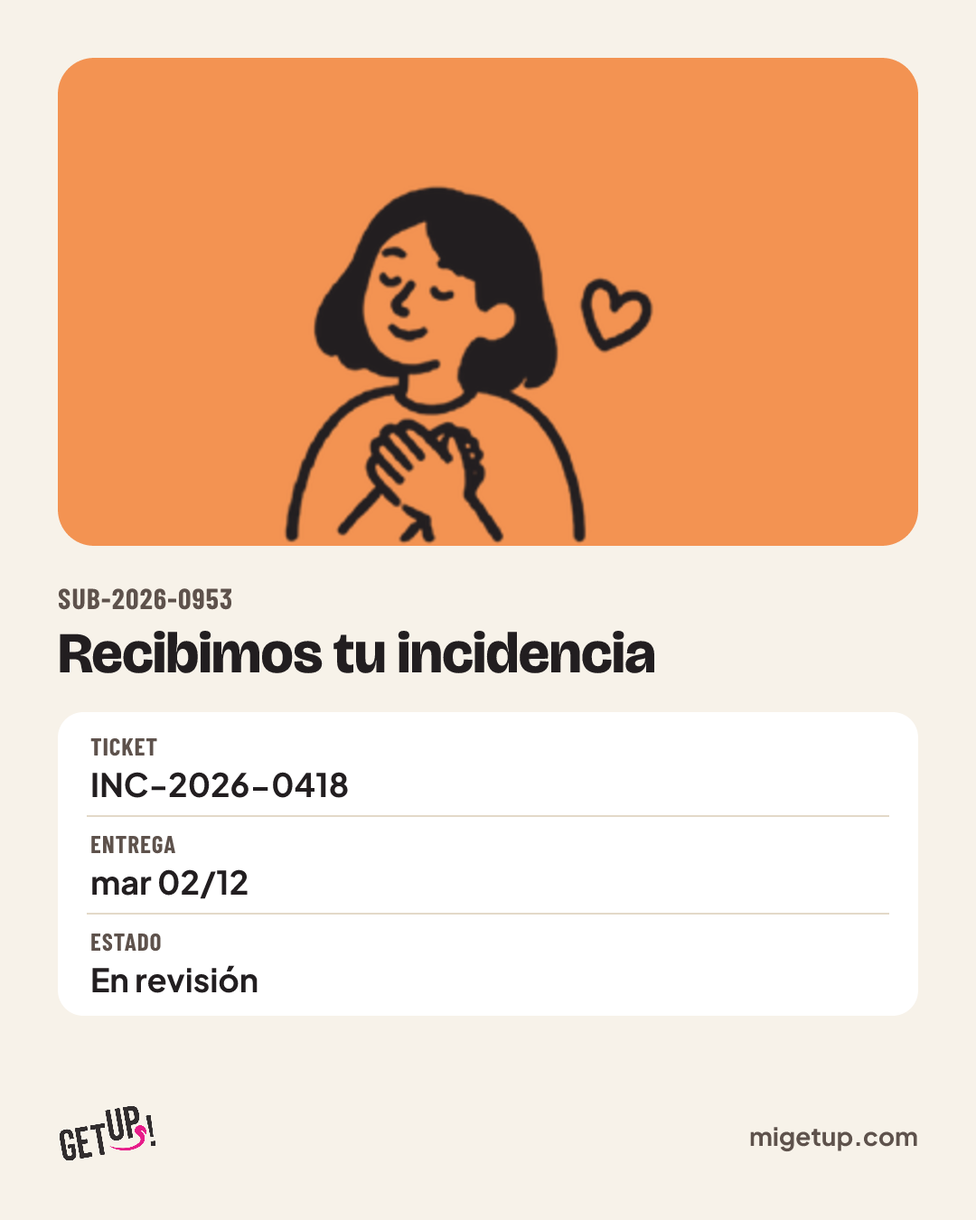
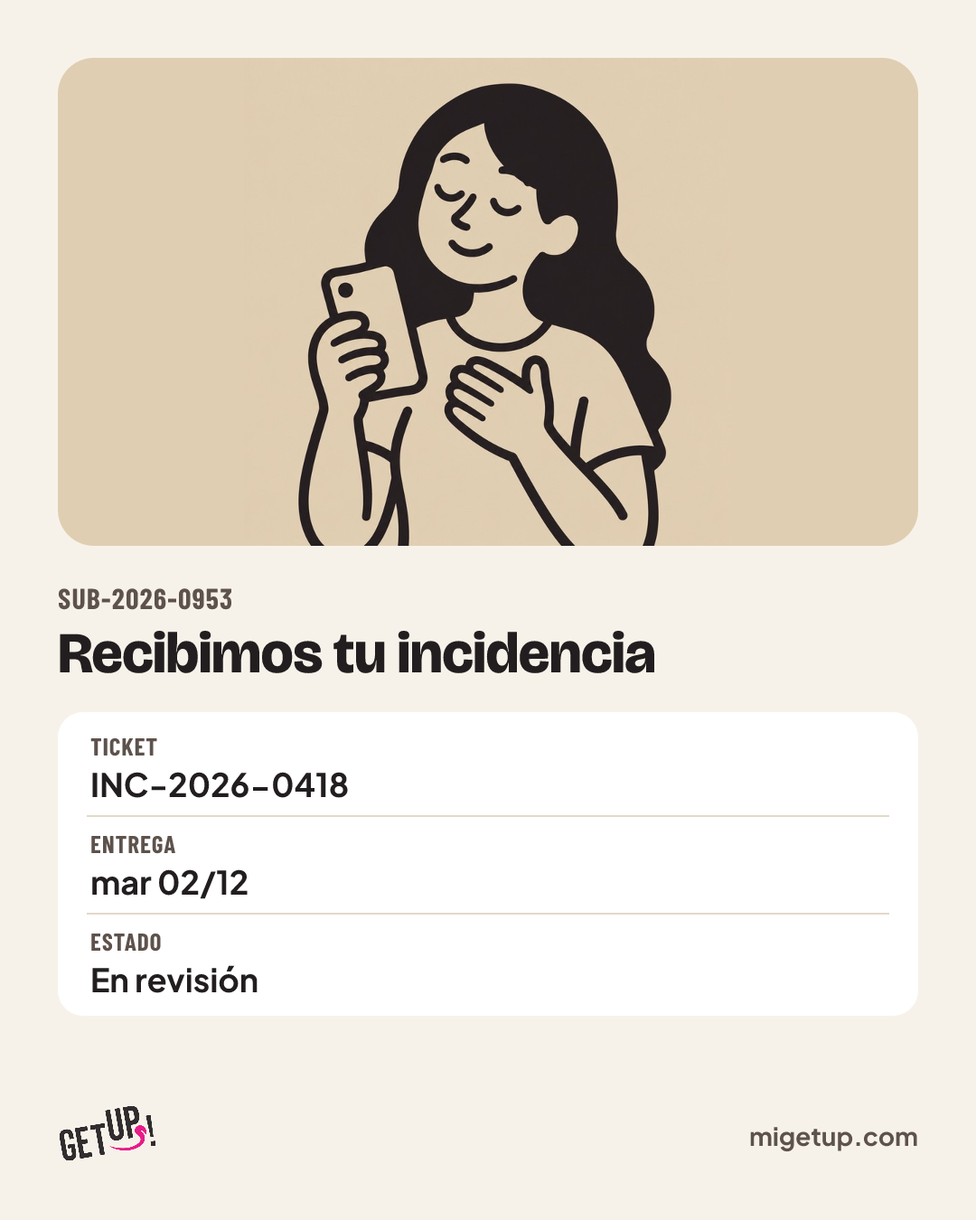
Revisión v3: tarjetas con pie corto, ilustración nueva de incidencia y renovación confirmada (32)

diff --git a/revision-v3/tarjetas/index.html b/revision-v3/tarjetas/index.html
@@ -31,7 +31,7 @@
 <body>
 <header>
   <h1>Avisos por WhatsApp con tarjeta</h1>
-  <p>31 eventos con datos inventados: 20 acciones del cliente en el portal (mismo mensaje que el correo) y 11 mensajes de Mía.</p>
+  <p>32 eventos con datos inventados: 20 acciones del cliente en el portal (mismo mensaje que el correo) y 12 mensajes de Mía.</p>
   <p>Cada tarjeta va con su texto de pie, como se vería en el chat.</p>
 </header>
 <main>
@@ -39,7 +39,7 @@
     <h2><span class="chip portal">Portal</span> Suspender días</h2>
     <p class="meta">evento portal_suspension del ERP · tarjeta «suspension» · <a href="01-suspension.png">PNG</a></p>
     <div class="chat">
-      <div class="burbuja"><img src="01-suspension.png" alt="Tus días quedaron suspendidos" loading="lazy"><p><b>Tus días quedaron suspendidos</b><br><br>Hola, Valeria. Tus días mié 03/12 y jue 04/12 quedaron suspendidos correctamente.<br><br>Los recibes al final de tu plan: lun 05/01 y mar 06/01.<br><br>Lo ves en tu portal: migetup.com<br>¿No fuiste tú? Respóndenos por aquí.</p><span class="hora">10:24</span></div>
+      <div class="burbuja"><img src="01-suspension.png" alt="Tus días quedaron suspendidos" loading="lazy"><p>Hola Valeria, tus días mié 03/12 y jue 04/12 quedaron suspendidos.</p><span class="hora">10:24</span></div>
       
     </div>
     
@@ -49,7 +49,7 @@
     <h2><span class="chip portal">Portal</span> Volver a recibir un día</h2>
     <p class="meta">evento portal_reactivacion del ERP · tarjeta «reactivacion» · <a href="02-reactivacion.png">PNG</a></p>
     <div class="chat">
-      <div class="burbuja"><img src="02-reactivacion.png" alt="Tu día quedó reactivado" loading="lazy"><p><b>Tu día quedó reactivado</b><br><br>Hola, Valeria. Tu día jue 04/12 quedó reactivado correctamente. Lo recibes como siempre.<br><br>Lo ves en tu portal: migetup.com<br>¿No fuiste tú? Respóndenos por aquí.</p><span class="hora">10:24</span></div>
+      <div class="burbuja"><img src="02-reactivacion.png" alt="Tu día quedó reactivado" loading="lazy"><p>Hola Valeria, tu día jue 04/12 quedó reactivado.</p><span class="hora">10:24</span></div>
       
     </div>
     
@@ -59,7 +59,7 @@
     <h2><span class="chip portal">Portal</span> Volver a recibir y suspender a la vez</h2>
     <p class="meta">evento portal_suspension del ERP · tarjeta «suspension» · <a href="03-suspension.png">PNG</a></p>
     <div class="chat">
-      <div class="burbuja"><img src="03-suspension.png" alt="Tus días quedaron actualizados" loading="lazy"><p><b>Tus días quedaron actualizados</b><br><br>Hola, Valeria. Vuelves a recibir tu día jue 04/12. Tu día vie 05/12 quedó suspendido.<br><br>Lo recibes al final de tu plan: mar 06/01.<br><br>Lo ves en tu portal: migetup.com<br>¿No fuiste tú? Respóndenos por aquí.</p><span class="hora">10:24</span></div>
+      <div class="burbuja"><img src="03-suspension.png" alt="Tus días quedaron actualizados" loading="lazy"><p>Hola Valeria, vuelves a recibir tu día jue 04/12.</p><span class="hora">10:24</span></div>
       
     </div>
     
@@ -69,7 +69,7 @@
     <h2><span class="chip portal">Portal</span> Cambiar la dirección</h2>
     <p class="meta">evento portal_direccion del ERP · tarjeta «direccion» · <a href="04-direccion.png">PNG</a></p>
     <div class="chat">
-      <div class="burbuja"><img src="04-direccion.png" alt="Cambiaste tu dirección de entrega" loading="lazy"><p><b>Cambiaste tu dirección de entrega</b><br><br>Hola, Valeria. Desde el lun 08/12 tus entregas irán a OFICINA (Av. Los Pinos 450, San Isidro).<br><br>Lo ves en tu portal: migetup.com<br>¿No fuiste tú? Respóndenos por aquí.</p><span class="hora">10:24</span></div>
+      <div class="burbuja"><img src="04-direccion.png" alt="Cambiaste tu dirección de entrega" loading="lazy"><p>Hola Valeria, desde el lun 08/12 tus entregas irán a OFICINA (Av. Los Pinos 450, San Isidro).</p><span class="hora">10:24</span></div>
       
     </div>
     
@@ -79,7 +79,7 @@
     <h2><span class="chip portal">Portal</span> Cambiar el horario</h2>
     <p class="meta">evento portal_horario del ERP · tarjeta «horario» · <a href="05-horario.png">PNG</a></p>
     <div class="chat">
-      <div class="burbuja"><img src="05-horario.png" alt="Cambiaste tu horario de entrega" loading="lazy"><p><b>Cambiaste tu horario de entrega</b><br><br>Hola, Valeria. Tu día mié 03/12 se entregará entre 9:00 y 13:00.<br><br>Lo ves en tu portal: migetup.com<br>¿No fuiste tú? Respóndenos por aquí.</p><span class="hora">10:24</span></div>
+      <div class="burbuja"><img src="05-horario.png" alt="Cambiaste tu horario de entrega" loading="lazy"><p>Hola Valeria, tu día mié 03/12 se entregará entre 9:00 y 13:00.</p><span class="hora">10:24</span></div>
       
     </div>
     
@@ -89,7 +89,7 @@
     <h2><span class="chip portal">Portal</span> Cambiar los días de entrega</h2>
     <p class="meta">evento portal_dias_entrega del ERP · tarjeta «dias_entrega» · <a href="06-dias_entrega.png">PNG</a></p>
     <div class="chat">
-      <div class="burbuja"><img src="06-dias_entrega.png" alt="Cambiaste tus días de entrega" loading="lazy"><p><b>Cambiaste tus días de entrega</b><br><br>Hola, Valeria. Tus días de entrega ahora son lunes, miércoles y viernes.<br><br>• Lunes: CASA<br>• Miércoles: OFICINA<br>• Viernes: CASA<br><br>Tu horario ahora es entre 6:00 y 9:00.<br><br>Lo ves en tu portal: migetup.com<br>¿No fuiste tú? Respóndenos por aquí.</p><span class="hora">10:24</span></div>
+      <div class="burbuja"><img src="06-dias_entrega.png" alt="Cambiaste tus días de entrega" loading="lazy"><p>Hola Valeria, tus días de entrega ahora son lunes, miércoles y viernes.</p><span class="hora">10:24</span></div>
       
     </div>
     
@@ -99,7 +99,7 @@
     <h2><span class="chip portal">Portal</span> Reportar una incidencia</h2>
     <p class="meta">evento portal_incidencia del ERP · tarjeta «incidencia» · <a href="07-incidencia.png">PNG</a></p>
     <div class="chat">
-      <div class="burbuja"><img src="07-incidencia.png" alt="Recibimos tu incidencia" loading="lazy"><p><b>Recibimos tu incidencia</b><br><br>Hola, Valeria. Recibimos tu incidencia del mar 02/12. Tu asesora la revisará y te avisará en la app.<br><br>Lo ves en tu portal: migetup.com<br>¿No fuiste tú? Respóndenos por aquí.</p><span class="hora">10:24</span></div>
+      <div class="burbuja"><img src="07-incidencia.png" alt="Recibimos tu incidencia" loading="lazy"><p>Hola Valeria, recibimos tu incidencia del mar 02/12.</p><span class="hora">10:24</span></div>
       
     </div>
     
@@ -109,7 +109,7 @@
     <h2><span class="chip portal">Portal</span> Pedir la balanza</h2>
     <p class="meta">evento balanza_solicitada del ERP · tarjeta «balanza» · <a href="08-balanza.png">PNG</a></p>
     <div class="chat">
-      <div class="burbuja"><img src="08-balanza.png" alt="Recibimos tu solicitud de balanza" loading="lazy"><p><b>Recibimos tu solicitud de balanza</b><br><br>Hola, Valeria. Recibimos tu solicitud de balanza BAL-0057. Te la llevamos el jue 04/12.<br><br>Lo ves en tu portal: migetup.com<br>¿No fuiste tú? Respóndenos por aquí.</p><span class="hora">10:24</span></div>
+      <div class="burbuja"><img src="08-balanza.png" alt="Recibimos tu solicitud de balanza" loading="lazy"><p>Hola Valeria, recibimos tu solicitud de balanza BAL-0057.</p><span class="hora">10:24</span></div>
       
     </div>
     
@@ -119,7 +119,7 @@
     <h2><span class="chip portal">Portal</span> Comprobante de excepciones</h2>
     <p class="meta">evento portal_excepcion_pago del ERP · tarjeta «pago» · <a href="09-pago.png">PNG</a></p>
     <div class="chat">
-      <div class="burbuja"><img src="09-pago.png" alt="Recibimos tu comprobante" loading="lazy"><p><b>Recibimos tu comprobante</b><br><br>Hola, Valeria. Recibimos tu comprobante de pago de excepciones. Tu asesora lo confirmará pronto.<br><br>Lo ves en tu portal: migetup.com<br>¿No fuiste tú? Respóndenos por aquí.</p><span class="hora">10:24</span></div>
+      <div class="burbuja"><img src="09-pago.png" alt="Recibimos tu comprobante" loading="lazy"><p>Hola Valeria, recibimos tu comprobante de pago de excepciones.</p><span class="hora">10:24</span></div>
       
     </div>
     
@@ -129,7 +129,7 @@
     <h2><span class="chip portal">Portal</span> Migrar el plan: falta el pago</h2>
     <p class="meta">evento migracion del ERP · tarjeta «pago_pendiente» · <a href="10-pago_pendiente.png">PNG</a></p>
     <div class="chat">
-      <div class="burbuja"><img src="10-pago_pendiente.png" alt="Falta el pago de tu nuevo plan" loading="lazy"><p><b>Falta el pago de tu nuevo plan</b><br><br>Hola, Valeria. Recibimos tu cambio de plan. Sube tu comprobante de S/ 120.00 hasta el mié 03/12 a las 11:59 p. m.<br><br>Lo ves en tu portal: migetup.com<br>¿No fuiste tú? Respóndenos por aquí.</p><span class="hora">10:24</span></div>
+      <div class="burbuja"><img src="10-pago_pendiente.png" alt="Falta el pago de tu nuevo plan" loading="lazy"><p>Hola Valeria, recibimos tu cambio de plan.<br>Sube tu comprobante de S/ 120.00 hasta el mié 03/12 a las 11:59 p. m.</p><span class="hora">10:24</span></div>
       
     </div>
     
@@ -139,7 +139,7 @@
     <h2><span class="chip portal">Portal</span> Migrar el plan: activo</h2>
     <p class="meta">evento migracion del ERP · tarjeta «migracion» · <a href="11-migracion.png">PNG</a></p>
     <div class="chat">
-      <div class="burbuja"><img src="11-migracion.png" alt="Tu nuevo plan está activo" loading="lazy"><p><b>Tu nuevo plan está activo</b><br><br>Hola, Valeria. Tu nuevo plan SUB-2026-0960 empieza el lun 08/12.<br><br>Lo ves en tu portal: migetup.com<br>¿No fuiste tú? Respóndenos por aquí.</p><span class="hora">10:24</span></div>
+      <div class="burbuja"><img src="11-migracion.png" alt="Tu nuevo plan está activo" loading="lazy"><p>Hola Valeria, tu nuevo plan SUB-2026-0960 empieza el lun 08/12.</p><span class="hora">10:24</span></div>
       
     </div>
     
@@ -149,7 +149,7 @@
     <h2><span class="chip portal">Portal</span> Migrar el plan: comprobante</h2>
     <p class="meta">evento migracion del ERP · tarjeta «pago» · <a href="12-pago.png">PNG</a></p>
     <div class="chat">
-      <div class="burbuja"><img src="12-pago.png" alt="Recibimos tu comprobante" loading="lazy"><p><b>Recibimos tu comprobante</b><br><br>Hola, Valeria. Recibimos tu comprobante del cambio de plan. Tu pago está en revisión.<br><br>Lo ves en tu portal: migetup.com<br>¿No fuiste tú? Respóndenos por aquí.</p><span class="hora">10:24</span></div>
+      <div class="burbuja"><img src="12-pago.png" alt="Recibimos tu comprobante" loading="lazy"><p>Hola Valeria, recibimos tu comprobante del cambio de plan.</p><span class="hora">10:24</span></div>
       
     </div>
     
@@ -159,7 +159,7 @@
     <h2><span class="chip portal">Portal</span> Migrar el plan: cancelado</h2>
     <p class="meta">evento migracion del ERP · tarjeta «cancelado» · <a href="13-cancelado.png">PNG</a></p>
     <div class="chat">
-      <div class="burbuja"><img src="13-cancelado.png" alt="Tu cambio de plan quedó cancelado" loading="lazy"><p><b>Tu cambio de plan quedó cancelado</b><br><br>Hola, Valeria. No pagaste la activación de tu plan; tu plan quedó cancelado. Tu saldo a favor sigue disponible.<br><br>Lo ves en tu portal: migetup.com<br>¿No fuiste tú? Respóndenos por aquí.</p><span class="hora">10:24</span></div>
+      <div class="burbuja"><img src="13-cancelado.png" alt="Tu cambio de plan quedó cancelado" loading="lazy"><p>Hola Valeria, no pagaste la activación de tu plan; tu plan quedó cancelado.</p><span class="hora">10:24</span></div>
       
     </div>
     
@@ -169,7 +169,7 @@
     <h2><span class="chip portal">Portal</span> Canjear un premio</h2>
     <p class="meta">evento portal_canje del ERP · tarjeta «canje» · <a href="14-canje.png">PNG</a></p>
     <div class="chat">
-      <div class="burbuja"><img src="14-canje.png" alt="Recibimos tu canje" loading="lazy"><p><b>Recibimos tu canje</b><br><br>Hola, Valeria. Canjeaste Almuerzo extra por 200 estrellas.<br><br>Te llega un almuerzo extra el vie 05/12.<br><br>Lo ves en tu portal: migetup.com<br>¿No fuiste tú? Respóndenos por aquí.</p><span class="hora">10:24</span></div>
+      <div class="burbuja"><img src="14-canje.png" alt="Recibimos tu canje" loading="lazy"><p>Hola Valeria, canjeaste Almuerzo extra por 200 estrellas.</p><span class="hora">10:24</span></div>
       
     </div>
     
@@ -179,7 +179,7 @@
     <h2><span class="chip portal">Portal</span> Usar un código de regalo</h2>
     <p class="meta">evento portal_canje del ERP · tarjeta «regalo» · <a href="15-regalo.png">PNG</a></p>
     <div class="chat">
-      <div class="burbuja"><img src="15-regalo.png" alt="Agregamos tu regalo a tu plan" loading="lazy"><p><b>Agregamos tu regalo a tu plan</b><br><br>Hola, Valeria. Agregamos un almuerzo de regalo a tu plan el vie 05/12.<br><br>Ese día te llega almuerzo y cena.<br><br>Lo ves en tu portal: migetup.com<br>¿No fuiste tú? Respóndenos por aquí.</p><span class="hora">10:24</span></div>
+      <div class="burbuja"><img src="15-regalo.png" alt="Agregamos tu regalo a tu plan" loading="lazy"><p>Hola Valeria, agregamos un almuerzo de regalo a tu plan el vie 05/12.</p><span class="hora">10:24</span></div>
       
     </div>
     
@@ -189,7 +189,7 @@
     <h2><span class="chip portal">Portal</span> Cambiar las excepciones</h2>
     <p class="meta">evento portal_excepciones del ERP · tarjeta «excepciones» · <a href="16-excepciones.png">PNG</a></p>
     <div class="chat">
-      <div class="burbuja"><img src="16-excepciones.png" alt="Actualizaste tus excepciones" loading="lazy"><p><b>Actualizaste tus excepciones</b><br><br>Hola, Valeria. Tus excepciones ahora son: gluten y maní.<br><br>La cocina aplica estos cambios desde el jue 04/12 (48 horas después de pedirlos).<br><br>Lo ves en tu portal: migetup.com<br>¿No fuiste tú? Respóndenos por aquí.</p><span class="hora">10:24</span></div>
+      <div class="burbuja"><img src="16-excepciones.png" alt="Actualizaste tus excepciones" loading="lazy"><p>Hola Valeria, tus excepciones ahora son: gluten y maní.</p><span class="hora">10:24</span></div>
       
     </div>
     
@@ -199,7 +199,7 @@
     <h2><span class="chip portal">Portal</span> Editar una dirección</h2>
     <p class="meta">evento portal_direcciones del ERP · tarjeta «direccion» · <a href="17-direccion.png">PNG</a></p>
     <div class="chat">
-      <div class="burbuja"><img src="17-direccion.png" alt="Actualizaste tu dirección OFICINA" loading="lazy"><p><b>Actualizaste tu dirección OFICINA</b><br><br>Hola, Valeria. Tu dirección OFICINA ahora es Av. Los Pinos 450, San Isidro.<br><br>Lo ves en tu portal: migetup.com<br>¿No fuiste tú? Respóndenos por aquí.</p><span class="hora">10:24</span></div>
+      <div class="burbuja"><img src="17-direccion.png" alt="Actualizaste tu dirección OFICINA" loading="lazy"><p>Hola Valeria, tu dirección OFICINA ahora es Av. Los Pinos 450, San Isidro.</p><span class="hora">10:24</span></div>
       
     </div>
     
@@ -209,7 +209,7 @@
     <h2><span class="chip portal">Portal</span> Borrar una dirección</h2>
     <p class="meta">evento portal_direcciones del ERP · tarjeta «direccion» · <a href="18-direccion.png">PNG</a></p>
     <div class="chat">
-      <div class="burbuja"><img src="18-direccion.png" alt="Borraste tu dirección GIMNASIO" loading="lazy"><p><b>Borraste tu dirección GIMNASIO</b><br><br>Hola, Valeria. Tu dirección GIMNASIO (Calle Las Flores 120, Surco) ya no está en tu cuenta.<br><br>Lo ves en tu portal: migetup.com<br>¿No fuiste tú? Respóndenos por aquí.</p><span class="hora">10:24</span></div>
+      <div class="burbuja"><img src="18-direccion.png" alt="Borraste tu dirección GIMNASIO" loading="lazy"><p>Hola Valeria, tu dirección GIMNASIO (Calle Las Flores 120, Surco) ya no está en tu cuenta.</p><span class="hora">10:24</span></div>
       
     </div>
     
@@ -219,7 +219,7 @@
     <h2><span class="chip portal">Portal</span> Dirección principal</h2>
     <p class="meta">evento portal_direcciones del ERP · tarjeta «direccion» · <a href="19-direccion.png">PNG</a></p>
     <div class="chat">
-      <div class="burbuja"><img src="19-direccion.png" alt="Cambiaste tu dirección principal" loading="lazy"><p><b>Cambiaste tu dirección principal</b><br><br>Hola, Valeria. Tu dirección principal ahora es CASA.<br><br>Lo ves en tu portal: migetup.com<br>¿No fuiste tú? Respóndenos por aquí.</p><span class="hora">10:24</span></div>
+      <div class="burbuja"><img src="19-direccion.png" alt="Cambiaste tu dirección principal" loading="lazy"><p>Hola Valeria, tu dirección principal ahora es CASA.</p><span class="hora">10:24</span></div>
       
     </div>
     
@@ -229,7 +229,7 @@
     <h2><span class="chip portal">Portal</span> Gestionar el plan de un familiar</h2>
     <p class="meta">evento portal_familia_gestion del ERP · tarjeta «familia» · <a href="20-familia.png">PNG</a></p>
     <div class="chat">
-      <div class="burbuja"><img src="20-familia.png" alt="Aceptaste que Martín Salas Vega gestione tu plan" loading="lazy"><p><b>Aceptaste que Martín Salas Vega gestione tu plan</b><br><br>Hola, Valeria. Aceptaste que Martín Salas Vega gestione tu plan. Desde ahora puede suspender tus días y cambiar tus direcciones u horarios.<br><br>Lo ves en tu portal: migetup.com<br>¿No fuiste tú? Respóndenos por aquí.</p><span class="hora">10:24</span></div>
+      <div class="burbuja"><img src="20-familia.png" alt="Aceptaste que Martín Salas Vega gestione tu plan" loading="lazy"><p>Hola Valeria, aceptaste que Martín Salas Vega gestione tu plan.</p><span class="hora">10:24</span></div>
       
     </div>
     
@@ -239,20 +239,20 @@
     <h2><span class="chip mia">Mía</span> Reserva recibida (pago por confirmar)</h2>
     <p class="meta">venta registrada · pago en validación · tarjeta «reserva» · <a href="21-reserva.png">PNG</a></p>
     <div class="chat">
-      <div class="burbuja"><img src="21-reserva.png" alt="Recibimos tu pedido" loading="lazy"><p>¡Valeria, te damos la bienvenida a getUP! Este es tu plan:<br><b>Plan:</b> Almuerzo + Cena · 20 días<br><b>Dieta:</b> Low Carb<br><b>Comidas:</b> Almuerzo y cena<br><b>Entregas:</b> lunes a viernes, del lun 01/12 al vie 26/12 (20 entregas)<br><b>Horario:</b> 6:00 a 9:00 a. m.<br><b>Dirección:</b> Jr. Los Olivos 233, Miraflores<br><b>Precio base:</b> 20 días × S/ 44.50 = S/ 890<br><b>Total:</b> S/ 890<br><b>Comprobante:</b> Boleta (te llega cuando se confirme el pago)<br><b>Código:</b> SUB-2026-0953<br><br>Crea tu cuenta en el portal de getUP! con este link (vence en 24 h): https://migetup.com/registro?inv=…<br>Para crearla te pedimos un código de verificación: te llega por WhatsApp a este número.<br>Desde ahí ves tu calendario y tu menú, suspendes días, cambias tu dirección y gestionas tu plan.</p><span class="hora">10:24</span></div>
-      
+      <div class="burbuja"><img src="21-reserva.png" alt="Recibimos tu pedido" loading="lazy"><p>Hola Valeria, recibimos tu pedido y tu pago está en validación.</p><span class="hora">10:24</span></div>
+      <div class="burbuja"><p>¡Valeria, te damos la bienvenida a getUP! Este es tu plan:<br><b>Plan:</b> Almuerzo + Cena · 20 días<br><b>Dieta:</b> Low Carb<br><b>Comidas:</b> Almuerzo y cena<br><b>Entregas:</b> lunes a viernes, del lun 01/12 al vie 26/12 (20 entregas)<br><b>Horario:</b> 6:00 a 9:00 a. m.<br><b>Dirección:</b> Jr. Los Olivos 233, Miraflores<br><b>Precio base:</b> 20 días × S/ 44.50 = S/ 890<br><b>Total:</b> S/ 890<br><b>Comprobante:</b> Boleta (te llega cuando se confirme el pago)<br><b>Código:</b> SUB-2026-0953<br><br>Crea tu cuenta en el portal de getUP! con este link (vence en 24 h): https://migetup.com/registro?inv=…<br>Para crearla te pedimos un código de verificación: te llega por WhatsApp a este número.<br>Desde ahí ves tu calendario y tu menú, suspendes días, cambias tu dirección y gestionas tu plan.</p><span class="hora">10:24</span></div>
     </div>
-    
+    <p class="nota">El texto pasa de 1024 caracteres: la imagen sale con el título de pie y el texto completo va después.</p>
   </section>
 
   <section class="evento">
     <h2><span class="chip mia">Mía</span> Plan registrado (pago confirmado)</h2>
     <p class="meta">venta registrada · pagada · tarjeta «venta_registrada» · <a href="22-venta_registrada.png">PNG</a></p>
     <div class="chat">
-      <div class="burbuja"><img src="22-venta_registrada.png" alt="¡Tu plan quedó registrado!" loading="lazy"><p>¡Valeria, te damos la bienvenida a getUP! Este es tu plan:<br><b>Plan:</b> Almuerzo + Cena · 20 días<br><b>Dieta:</b> Low Carb<br><b>Entregas:</b> lunes a viernes, del lun 01/12 al vie 26/12 (20 entregas)<br><b>Precio base:</b> 20 días × S/ 44.50 = S/ 890<br><b>Saldo a favor:</b> −S/ 40<br><b>Total:</b> S/ 850<br><b>Comprobante:</b> Boleta B001-00418<br><b>Código:</b> SUB-2026-0953<br><br>Se descontó tu saldo a favor de <b>S/ 40</b>.<br><br>Entra a tu portal de getUP! con este link: https://migetup.com<br>Desde ahí ves tu calendario y tu menú, suspendes días, cambias tu dirección y gestionas tu plan.</p><span class="hora">10:24</span></div>
-      
+      <div class="burbuja"><img src="22-venta_registrada.png" alt="¡Tu plan quedó registrado!" loading="lazy"><p>Hola Valeria, tu plan quedó registrado.</p><span class="hora">10:24</span></div>
+      <div class="burbuja"><p>¡Valeria, te damos la bienvenida a getUP! Este es tu plan:<br><b>Plan:</b> Almuerzo + Cena · 20 días<br><b>Dieta:</b> Low Carb<br><b>Entregas:</b> lunes a viernes, del lun 01/12 al vie 26/12 (20 entregas)<br><b>Precio base:</b> 20 días × S/ 44.50 = S/ 890<br><b>Saldo a favor:</b> −S/ 40<br><b>Total:</b> S/ 850<br><b>Comprobante:</b> Boleta B001-00418<br><b>Código:</b> SUB-2026-0953<br><br>Se descontó tu saldo a favor de <b>S/ 40</b>.<br><br>Entra a tu portal de getUP! con este link: https://migetup.com<br>Desde ahí ves tu calendario y tu menú, suspendes días, cambias tu dirección y gestionas tu plan.</p><span class="hora">10:24</span></div>
     </div>
-    
+    <p class="nota">El texto pasa de 1024 caracteres: la imagen sale con el título de pie y el texto completo va después.</p>
   </section>
 
   <section class="evento">
@@ -279,17 +279,27 @@
     <h2><span class="chip mia">Mía</span> Venta editada (datos actualizados)</h2>
     <p class="meta">Mía editó la venta · tarjeta «venta_editada» · <a href="25-venta_editada.png">PNG</a></p>
     <div class="chat">
-      <div class="burbuja"><img src="25-venta_editada.png" alt="Tus datos quedaron actualizados" loading="lazy"><p>Listo, Valeria, actualicé tu pedido. Así queda:<br><b>Plan:</b> Almuerzo + Cena · 22 días<br><b>Entregas:</b> lunes a viernes, del lun 01/12 al mar 30/12 (22 entregas)<br><b>Precio base:</b> 22 días × S/ 44.50 = S/ 979<br><b>Total:</b> S/ 979<br><br>Ya pagaste <b>S/ 890</b>; falta <b>S/ 89</b>. Puedes pagarlo por Yape, Plin o transferencia y mandarme la foto de la constancia.</p><span class="hora">10:24</span></div>
-      
+      <div class="burbuja"><img src="25-venta_editada.png" alt="Tus datos quedaron actualizados" loading="lazy"><p>Hola Valeria, tus datos quedaron actualizados.</p><span class="hora">10:24</span></div>
+      <div class="burbuja"><p>Listo, Valeria, actualicé tu pedido. Así queda:<br><b>Plan:</b> Almuerzo + Cena · 22 días<br><b>Entregas:</b> lunes a viernes, del lun 01/12 al mar 30/12 (22 entregas)<br><b>Precio base:</b> 22 días × S/ 44.50 = S/ 979<br><b>Total:</b> S/ 979<br><br>Ya pagaste <b>S/ 890</b>; falta <b>S/ 89</b>. Puedes pagarlo por Yape, Plin o transferencia y mandarme la foto de la constancia.</p><span class="hora">10:24</span></div>
     </div>
-    
+    <p class="nota">El texto pasa de 1024 caracteres: la imagen sale con el título de pie y el texto completo va después.</p>
+  </section>
+
+  <section class="evento">
+    <h2><span class="chip mia">Mía</span> Renovación confirmada</h2>
+    <p class="meta">renovación del plan con el pago validado · tarjeta «renovacion» · <a href="26-renovacion.png">PNG</a></p>
+    <div class="chat">
+      <div class="burbuja"><img src="26-renovacion.png" alt="¡Seguimos un periodo más en getUP!" loading="lazy"><p>Hola Valeria, tu plan quedó renovado.</p><span class="hora">10:24</span></div>
+      <div class="burbuja"><p>¡Seguimos un periodo más en getUP! Gracias por renovar, Valeria. Ya validamos tu pago de <b>S/ 890</b>. Este es tu plan renovado:<br><b>Plan:</b> Almuerzo + Cena · 20 días<br><b>Entregas:</b> lunes a viernes, del lun 05/01 al vie 30/01 (20 entregas)<br><b>Precio base:</b> 20 días × S/ 44.50 = S/ 890<br><b>Total:</b> S/ 890<br><b>Código:</b> SUB-2026-1021<br><br>Por renovar antes de tu última entrega te regalamos <b>20 estrellas</b>.<br><br>Entra a tu portal de getUP! con este link: https://migetup.com<br>Desde ahí ves tu calendario y tu menú, suspendes días, cambias tu dirección y gestionas tu plan.</p><span class="hora">10:24</span></div>
+    </div>
+    <p class="nota">El texto pasa de 1024 caracteres: la imagen sale con el título de pie y el texto completo va después.</p>
   </section>
 
   <section class="evento">
     <h2><span class="chip mia">Mía</span> Mía suspende un día</h2>
-    <p class="meta">acción suspender_dia · tarjeta «suspension» · <a href="26-suspension.png">PNG</a></p>
+    <p class="meta">acción suspender_dia · tarjeta «suspension» · <a href="27-suspension.png">PNG</a></p>
     <div class="chat">
-      <div class="burbuja"><img src="26-suspension.png" alt="Tu día quedó suspendido" loading="lazy"><p>Listo: la entrega del jue 04/12 quedó suspendida y la recibes al final de tu plan, el mar 06/01.</p><span class="hora">10:24</span></div>
+      <div class="burbuja"><img src="27-suspension.png" alt="Tu día quedó suspendido" loading="lazy"><p>Listo: la entrega del jue 04/12 quedó suspendida y la recibes al final de tu plan, el mar 06/01.</p><span class="hora">10:24</span></div>
       
     </div>
     
@@ -297,9 +307,9 @@
 
   <section class="evento">
     <h2><span class="chip mia">Mía</span> Mía vuelve a programar una entrega</h2>
-    <p class="meta">acción reactivar_dia · tarjeta «reactivacion» · <a href="27-reactivacion.png">PNG</a></p>
+    <p class="meta">acción reactivar_dia · tarjeta «reactivacion» · <a href="28-reactivacion.png">PNG</a></p>
     <div class="chat">
-      <div class="burbuja"><img src="27-reactivacion.png" alt="Tu entrega vuelve a estar programada" loading="lazy"><p>Listo: tu entrega del jue 04/12 volvió a quedar programada.</p><span class="hora">10:24</span></div>
+      <div class="burbuja"><img src="28-reactivacion.png" alt="Tu entrega vuelve a estar programada" loading="lazy"><p>Listo: tu entrega del jue 04/12 volvió a quedar programada.</p><span class="hora">10:24</span></div>
       
     </div>
     
@@ -307,9 +317,9 @@
 
   <section class="evento">
     <h2><span class="chip mia">Mía</span> Mía cambia la dirección de un día</h2>
-    <p class="meta">acción cambiar_direccion_dia · tarjeta «direccion» · <a href="28-direccion.png">PNG</a></p>
+    <p class="meta">acción cambiar_direccion_dia · tarjeta «direccion» · <a href="29-direccion.png">PNG</a></p>
     <div class="chat">
-      <div class="burbuja"><img src="28-direccion.png" alt="Cambiamos la dirección de tu día" loading="lazy"><p>Listo: el vie 05/12 te llevamos tu pedido a OFICINA.</p><span class="hora">10:24</span></div>
+      <div class="burbuja"><img src="29-direccion.png" alt="Cambiamos la dirección de tu día" loading="lazy"><p>Listo: el vie 05/12 te llevamos tu pedido a OFICINA.</p><span class="hora">10:24</span></div>
       
     </div>
     
@@ -317,9 +327,9 @@
 
   <section class="evento">
     <h2><span class="chip mia">Mía</span> Mía agrega una restricción</h2>
-    <p class="meta">acción agregar_restriccion · tarjeta «restriccion» · <a href="29-restriccion.png">PNG</a></p>
+    <p class="meta">acción agregar_restriccion · tarjeta «restriccion» · <a href="30-restriccion.png">PNG</a></p>
     <div class="chat">
-      <div class="burbuja"><img src="29-restriccion.png" alt="Agregamos tu restricción" loading="lazy"><p>Listo: agregué «Sin lactosa» a tu ficha. La cocina la aplica desde el jue 04/12.</p><span class="hora">10:24</span></div>
+      <div class="burbuja"><img src="30-restriccion.png" alt="Agregamos tu restricción" loading="lazy"><p>Listo: agregué «Sin lactosa» a tu ficha. La cocina la aplica desde el jue 04/12.</p><span class="hora">10:24</span></div>
       
     </div>
     
@@ -327,9 +337,9 @@
 
   <section class="evento">
     <h2><span class="chip mia">Mía</span> Mía ajusta las comidas de un día</h2>
-    <p class="meta">acción ajustar_comidas · tarjeta «comidas» · <a href="30-comidas.png">PNG</a></p>
+    <p class="meta">acción ajustar_comidas · tarjeta «comidas» · <a href="31-comidas.png">PNG</a></p>
     <div class="chat">
-      <div class="burbuja"><img src="30-comidas.png" alt="Sumamos una comida a tu día" loading="lazy"><p>Listo: el vie 05/12 te llega también el desayuno.</p><span class="hora">10:24</span></div>
+      <div class="burbuja"><img src="31-comidas.png" alt="Sumamos una comida a tu día" loading="lazy"><p>Listo: el vie 05/12 te llega también el desayuno.</p><span class="hora">10:24</span></div>
       
     </div>
     
@@ -337,9 +347,9 @@
 
   <section class="evento">
     <h2><span class="chip mia">Mía</span> Mía registra una incidencia</h2>
-    <p class="meta">acción crear_incidencia · tarjeta «incidencia» · <a href="31-incidencia.png">PNG</a></p>
+    <p class="meta">acción crear_incidencia · tarjeta «incidencia» · <a href="32-incidencia.png">PNG</a></p>
     <div class="chat">
-      <div class="burbuja"><img src="31-incidencia.png" alt="Recibimos tu reporte" loading="lazy"><p>Lamento lo del almuerzo de hoy. Ya lo registré con el ticket <b>INC-2026-0419</b> y tu asesora lo revisa contigo.</p><span class="hora">10:24</span></div>
+      <div class="burbuja"><img src="32-incidencia.png" alt="Recibimos tu reporte" loading="lazy"><p>Lamento lo del almuerzo de hoy. Ya lo registré con el ticket <b>INC-2026-0419</b> y tu asesora lo revisa contigo.</p><span class="hora">10:24</span></div>
       
     </div>
     
